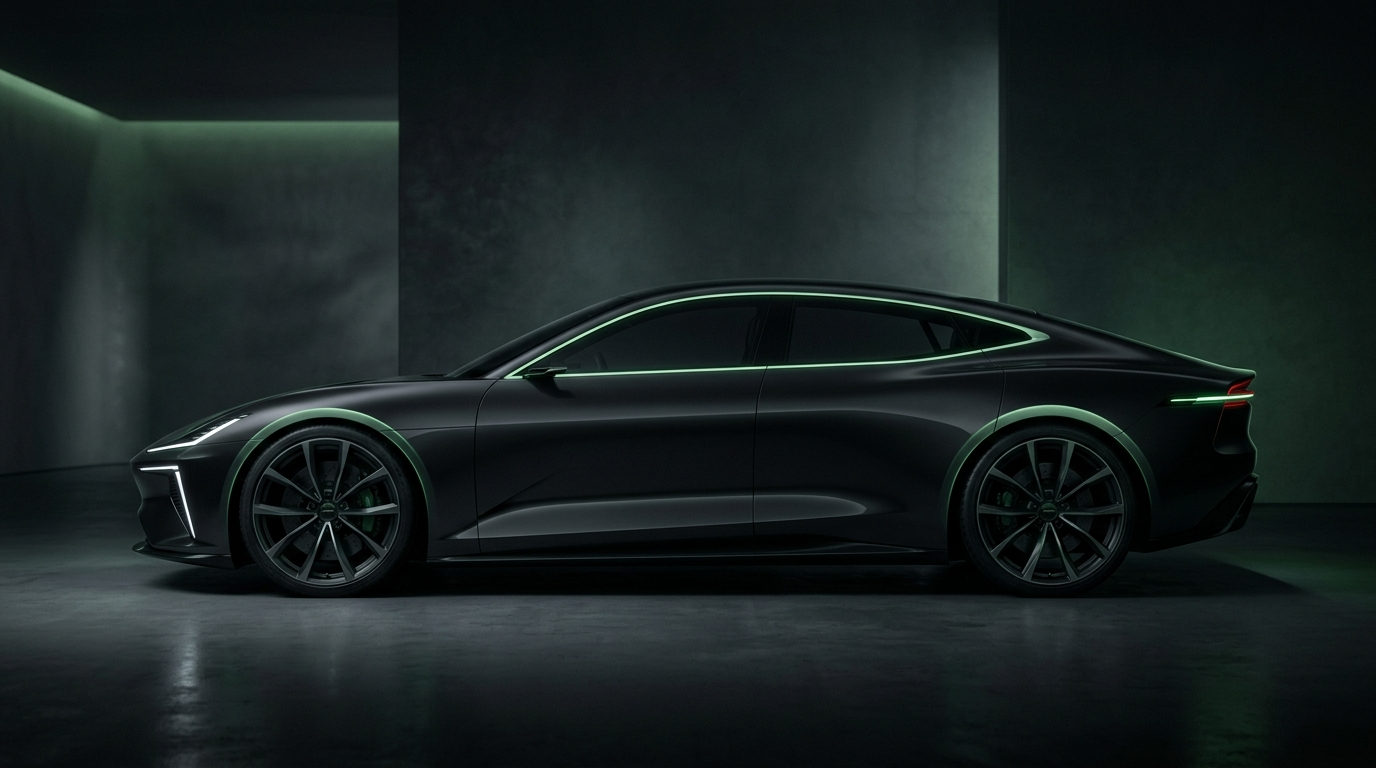
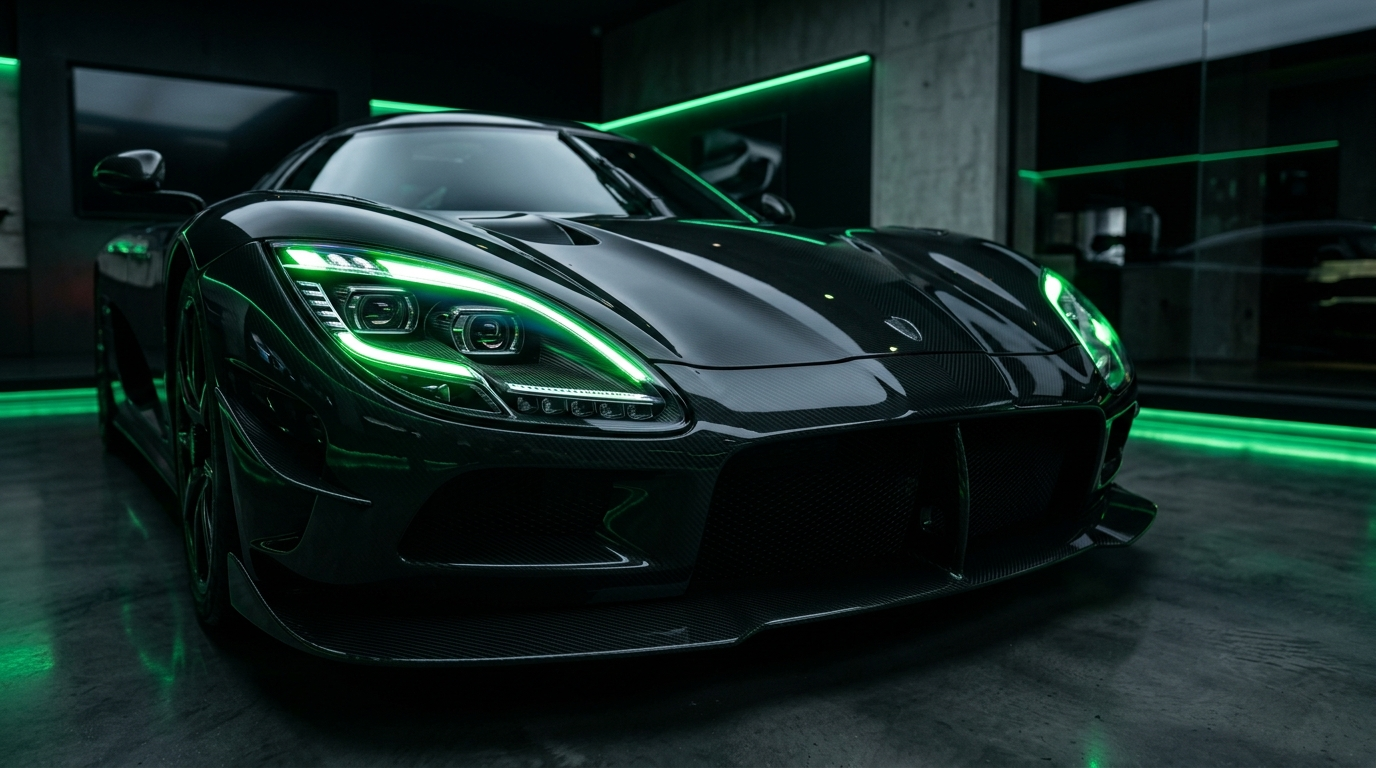
Update home hero background image to sleek green-accented luxury car showroom and increase visibility

diff --git a/src/app/(nondashboard)/home/HeroSection.tsx b/src/app/(nondashboard)/home/HeroSection.tsx
@@ -142,10 +142,10 @@ export default function HeroSection() {
           alt="Luxury vehicle background"
           fill
           priority
-          className="object-cover object-center opacity-35 filter contrast-125 brightness-90"
+          className="object-cover object-center sm:object-[center_35%] opacity-65 sm:opacity-60 filter contrast-125 brightness-105"
         />
-        <div className="absolute inset-0 bg-gradient-to-r from-[#070A08] via-[#070A08]/85 to-[#070A08]/40" />
-        <div className="absolute inset-0 bg-gradient-to-t from-[#070A08] via-transparent to-[#070A08]/70" />
+        <div className="absolute inset-0 bg-gradient-to-r from-[#070A08]/90 via-[#070A08]/65 to-transparent" />
+        <div className="absolute inset-0 bg-gradient-to-t from-[#070A08] via-transparent to-[#070A08]/50" />
       </div>
 
       <div className="relative z-10 mx-auto max-w-7xl px-4 sm:px-6 lg:px-8 w-full">
